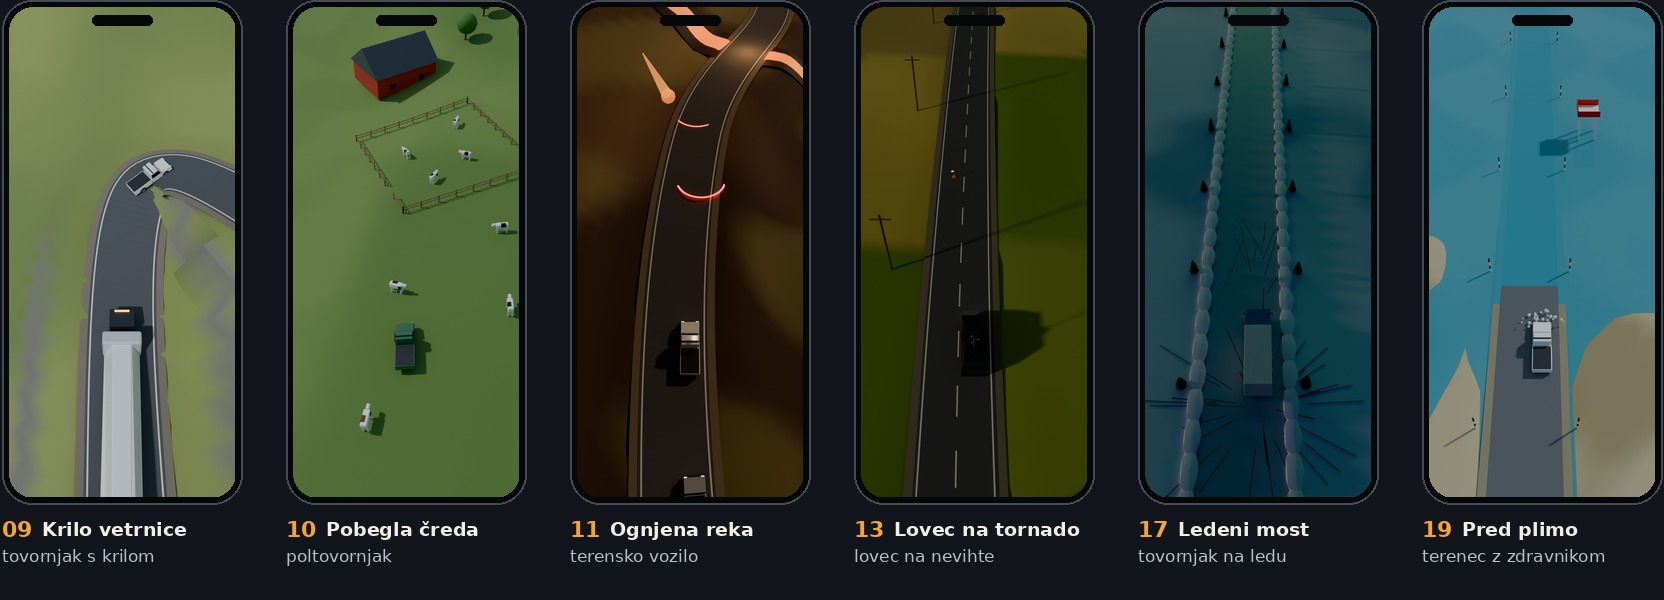
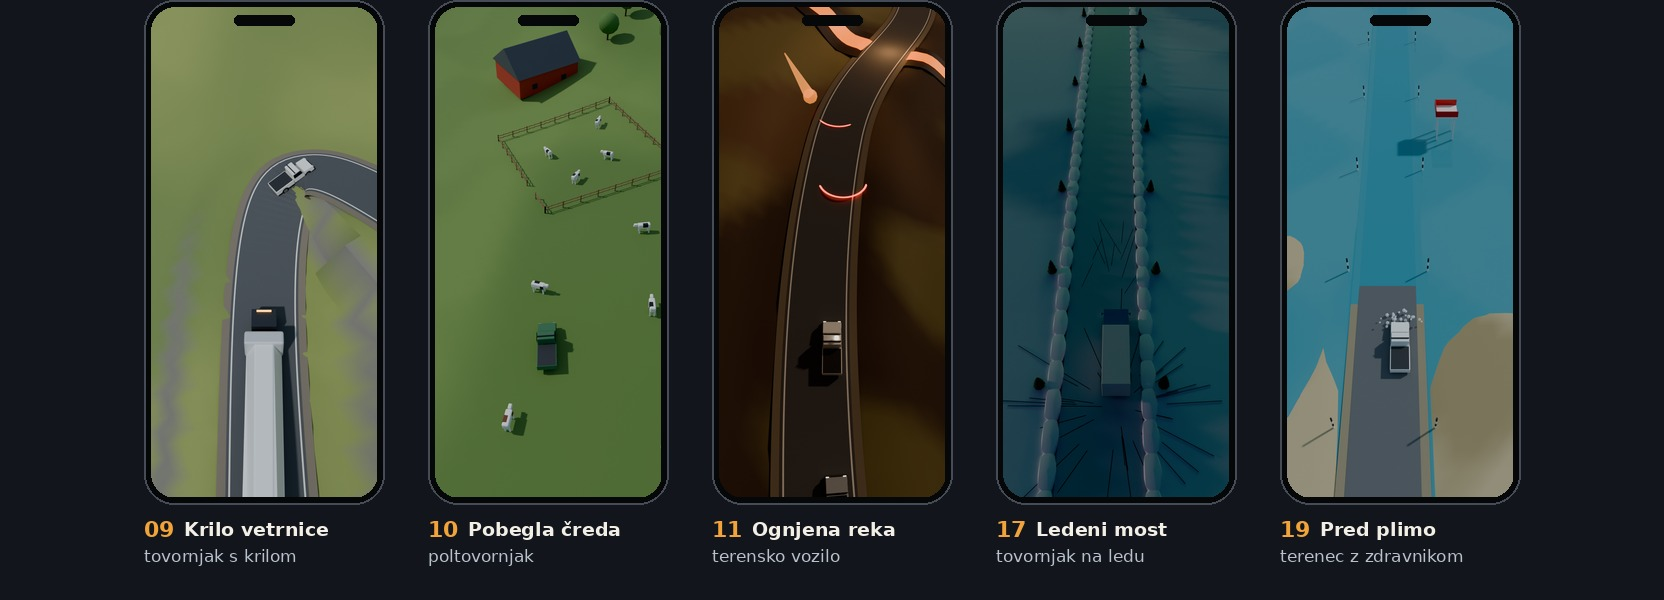
Slike: misija 13 med neizbranimi, izbor 23 misij, ocena časa za kodo
Predstavitev misij: 13 (Lovec na tornado) je med neizbranimi, tabela izbora,
čas in žetoni preračunani (23 izbranih, skupaj 33), list kamere 2/6 brez 13.
izbire.md: odločitev in ocena časa za vse, kar čaka na kodo po »začni«.
Koda igre ni spremenjena.

Claude-Session: https://claude.ai/code/session_01GY6hGMr9T539RyQrVQMfCV

diff --git a/slike-predlogi/misije-10/project/slides/tabela1.html b/slike-predlogi/misije-10/project/slides/tabela1.html
@@ -1,5 +1,5 @@
 <section id="tabela1" data-transition="fade" style="background:#12161C;color:#F3EFE6;font-family:'Public Sans', sans-serif;padding:112px 128px 150px;display:flex;flex-direction:column;gap:28px">
-<h2 style="font-family:'Oswald', sans-serif;font-size:64px;font-weight:600;line-height:1.1;text-transform:uppercase">Tvoj izbor · 24 misij</h2>
+<h2 style="font-family:'Oswald', sans-serif;font-size:64px;font-weight:600;line-height:1.1;text-transform:uppercase">Tvoj izbor · 23 misij</h2>
 <div style="display:flex;flex-direction:row;gap:32px">
 <table style="width:816px;font-family:'Public Sans', sans-serif;font-size:20px;color:#F3EFE6;padding:6px 12px">
 <tr style="background:#1B2230"><th style="width:7%;color:#F2A33A">#</th><th style="width:32%;color:#F2A33A">Misija</th><th style="width:33%;color:#F2A33A">Proga</th><th style="width:13%;color:#F2A33A;text-align:right">Izdelava</th><th style="width:15%;color:#F2A33A;text-align:right">Igranje</th></tr>
@@ -12,27 +12,26 @@
 <tr><td style="color:#F2A33A">09</td><td>Krilo vetrnice</td><td>Katu-Jaryk, Rusija</td><td style="text-align:right">16–22 h</td><td style="text-align:right">9–12 min</td></tr>
 <tr style="background:#161B23"><td style="color:#F2A33A">10</td><td>Pobegla čreda</td><td>Harju, Finska</td><td style="text-align:right">14–20 h</td><td style="text-align:right">4–6 min</td></tr>
 <tr><td style="color:#F2A33A">11</td><td>Ognjena reka</td><td>Mauna Kea, ZDA</td><td style="text-align:right">16–24 h</td><td style="text-align:right">3–4 min</td></tr>
-<tr style="background:#161B23"><td style="color:#F2A33A">13</td><td>Lovec na tornado</td><td>Detroit, ZDA</td><td style="text-align:right">16–24 h</td><td style="text-align:right">5–7 min</td></tr>
-<tr><td style="color:#F2A33A">17</td><td>Ledeni most</td><td>Trois-Rivières, Kanada</td><td style="text-align:right">12–18 h</td><td style="text-align:right">4–5 min</td></tr>
-<tr style="background:#161B23"><td style="color:#F2A33A">19</td><td>Pred plimo</td><td>Townsville, Avstralija</td><td style="text-align:right">12–16 h</td><td style="text-align:right">5–6 min</td></tr>
+<tr style="background:#161B23"><td style="color:#F2A33A">17</td><td>Ledeni most</td><td>Trois-Rivières, Kanada</td><td style="text-align:right">12–18 h</td><td style="text-align:right">4–5 min</td></tr>
+<tr><td style="color:#F2A33A">19</td><td>Pred plimo</td><td>Townsville, Avstralija</td><td style="text-align:right">12–16 h</td><td style="text-align:right">5–6 min</td></tr>
+<tr style="background:#161B23"><td style="color:#F2A33A">23</td><td>Lovec na meteorite</td><td>Marrakesh, Maroko</td><td style="text-align:right">12–18 h</td><td style="text-align:right">7–9 min</td></tr>
 </table>
 <table style="width:816px;font-family:'Public Sans', sans-serif;font-size:20px;color:#F3EFE6;padding:6px 12px">
 <tr style="background:#1B2230"><th style="width:7%;color:#F2A33A">#</th><th style="width:32%;color:#F2A33A">Misija</th><th style="width:33%;color:#F2A33A">Proga</th><th style="width:13%;color:#F2A33A;text-align:right">Izdelava</th><th style="width:15%;color:#F2A33A;text-align:right">Igranje</th></tr>
-<tr><td style="color:#F2A33A">23</td><td>Lovec na meteorite</td><td>Marrakesh, Maroko</td><td style="text-align:right">12–18 h</td><td style="text-align:right">7–9 min</td></tr>
-<tr style="background:#161B23"><td style="color:#F2A33A">26</td><td>Zadnji odstotek</td><td>Tianmen, Kitajska</td><td style="text-align:right">10–14 h</td><td style="text-align:right">6–8 min</td></tr>
-<tr><td style="color:#F2A33A">29</td><td>Božična noč</td><td>Štajerska, Avstrija</td><td style="text-align:right">12–16 h</td><td style="text-align:right">5–6 min</td></tr>
-<tr style="background:#161B23"><td style="color:#F2A33A">30</td><td>Ratrak</td><td>Mount Baldy, ZDA</td><td style="text-align:right">16–22 h</td><td style="text-align:right">6–8 min</td></tr>
-<tr><td style="color:#F2A33A">33</td><td>Odvoz snega</td><td>Montréal, Kanada</td><td style="text-align:right">14–18 h</td><td style="text-align:right">6–8 min</td></tr>
-<tr style="background:#161B23"><td style="color:#F2A33A">34</td><td>Mestni avtobus</td><td>Toronto, Kanada</td><td style="text-align:right">12–18 h</td><td style="text-align:right">10–13 min</td></tr>
-<tr><td style="color:#F2A33A">35</td><td>Reševalci na plaži</td><td>Newcastle, Avstralija</td><td style="text-align:right">16–22 h</td><td style="text-align:right">3–4 min</td></tr>
-<tr style="background:#161B23"><td style="color:#F2A33A">37</td><td>Poplava</td><td>Bang Saen, Tajska</td><td style="text-align:right">16–22 h</td><td style="text-align:right">8–10 min</td></tr>
-<tr><td style="color:#F2A33A">39</td><td>Konji v prikolici</td><td>Monterey, ZDA</td><td style="text-align:right">12–16 h</td><td style="text-align:right">6–8 min</td></tr>
-<tr style="background:#161B23"><td style="color:#F2A33A">40</td><td>Varnostni avto</td><td>Bathurst, Avstralija</td><td style="text-align:right">12–18 h</td><td style="text-align:right">4–5 min</td></tr>
-<tr><td style="color:#F2A33A">43</td><td>Vroče zavore</td><td>Rio do Rastro, Brazilija</td><td style="text-align:right">12–16 h</td><td style="text-align:right">4–5 min</td></tr>
-<tr style="background:#161B23"><td style="color:#F2A33A">45</td><td>Turistični vlakec</td><td>Riviera, Francija</td><td style="text-align:right">14–20 h</td><td style="text-align:right">6–8 min</td></tr>
+<tr><td style="color:#F2A33A">26</td><td>Zadnji odstotek</td><td>Tianmen, Kitajska</td><td style="text-align:right">10–14 h</td><td style="text-align:right">6–8 min</td></tr>
+<tr style="background:#161B23"><td style="color:#F2A33A">29</td><td>Božična noč</td><td>Štajerska, Avstrija</td><td style="text-align:right">12–16 h</td><td style="text-align:right">5–6 min</td></tr>
+<tr><td style="color:#F2A33A">30</td><td>Ratrak</td><td>Mount Baldy, ZDA</td><td style="text-align:right">16–22 h</td><td style="text-align:right">6–8 min</td></tr>
+<tr style="background:#161B23"><td style="color:#F2A33A">33</td><td>Odvoz snega</td><td>Montréal, Kanada</td><td style="text-align:right">14–18 h</td><td style="text-align:right">6–8 min</td></tr>
+<tr><td style="color:#F2A33A">34</td><td>Mestni avtobus</td><td>Toronto, Kanada</td><td style="text-align:right">12–18 h</td><td style="text-align:right">10–13 min</td></tr>
+<tr style="background:#161B23"><td style="color:#F2A33A">35</td><td>Reševalci na plaži</td><td>Newcastle, Avstralija</td><td style="text-align:right">16–22 h</td><td style="text-align:right">3–4 min</td></tr>
+<tr><td style="color:#F2A33A">37</td><td>Poplava</td><td>Bang Saen, Tajska</td><td style="text-align:right">16–22 h</td><td style="text-align:right">8–10 min</td></tr>
+<tr style="background:#161B23"><td style="color:#F2A33A">39</td><td>Konji v prikolici</td><td>Monterey, ZDA</td><td style="text-align:right">12–16 h</td><td style="text-align:right">6–8 min</td></tr>
+<tr><td style="color:#F2A33A">40</td><td>Varnostni avto</td><td>Bathurst, Avstralija</td><td style="text-align:right">12–18 h</td><td style="text-align:right">4–5 min</td></tr>
+<tr style="background:#161B23"><td style="color:#F2A33A">43</td><td>Vroče zavore</td><td>Rio do Rastro, Brazilija</td><td style="text-align:right">12–16 h</td><td style="text-align:right">4–5 min</td></tr>
+<tr><td style="color:#F2A33A">45</td><td>Turistični vlakec</td><td>Riviera, Francija</td><td style="text-align:right">14–20 h</td><td style="text-align:right">6–8 min</td></tr>
 </table>
 </div>
-<div style="background:#1B2230;border-left:6px solid #F2A33A;padding:20px 28px"><p style="font-size:26px;line-height:1.4"><b>Skupaj 322–454 h izdelave.</b> Vseh 24 misij se enkrat odigra v 135–177 minutah. Misija 6 ima zdaj promet (+2 h), 45 je prestavljena na Rivijero.</p></div>
+<div style="background:#1B2230;border-left:6px solid #F2A33A;padding:20px 28px"><p style="font-size:26px;line-height:1.4"><b>Skupaj 306–430 h izdelave.</b> Vseh 23 misij se enkrat odigra v 130–170 minutah. Misija 6 ima zdaj promet (+2 h), 45 je prestavljena na Rivijero, 13 je med neizbranimi.</p></div>
 <p style="position:absolute;left:128px;bottom:64px;width:1664px;font-size:24px;color:#B9C2CC">55 posebnih misij · 2 / 73 · izdelava: vozilo, igralni del in testi; igranje: ena vožnja misije</p>
 <aside>Tabela tvojega izbora: za vsako misijo proga, čas izdelave in koliko časa traja, ko jo igralec igra. Ure so groba ocena.</aside>
 </section>

diff --git a/slike-predlogi/misije-10/project/slides/ostale.html b/slike-predlogi/misije-10/project/slides/ostale.html
@@ -1,10 +1,11 @@
 <section id="ostale" data-transition="fade" style="background:#1B2230;color:#F3EFE6;font-family:'Public Sans', sans-serif;padding:128px 128px 160px;display:flex;flex-direction:column;gap:36px">
 <h2 style="font-family:'Oswald', sans-serif;font-size:72px;font-weight:600;line-height:1.1;text-transform:uppercase">Neizbrane misije</h2>
-<p style="font-size:30px;line-height:1.4;width:1500px">Teh 21 misij nisi izbral. Ostajajo v predstavitvi kot rezerva, tu za tem, in jih lahko kadar koli dodaš nazaj.</p>
+<p style="font-size:30px;line-height:1.4;width:1500px">Teh 22 misij nisi izbral. Ostajajo v predstavitvi kot rezerva, tu za tem, in jih lahko kadar koli dodaš nazaj. Zadnja dodana: 13 Lovec na tornado.</p>
 <div style="display:grid;grid-template-columns:repeat(4, 1fr);gap:14px">
 <div style="background:#12161C;border-radius:12px;padding:14px 18px;display:flex;flex-direction:row;gap:12px"><p style="font-size:24px;font-weight:700;color:#F2A33A">03</p><p style="font-size:24px;line-height:1.3">Zasuti prelaz</p></div>
 <div style="background:#12161C;border-radius:12px;padding:14px 18px;display:flex;flex-direction:row;gap:12px"><p style="font-size:24px;font-weight:700;color:#F2A33A">05</p><p style="font-size:24px;line-height:1.3">Vedro iz jezera</p></div>
 <div style="background:#12161C;border-radius:12px;padding:14px 18px;display:flex;flex-direction:row;gap:12px"><p style="font-size:24px;font-weight:700;color:#F2A33A">12</p><p style="font-size:24px;line-height:1.3">Avtek na daljinca</p></div>
+<div style="background:#12161C;border-radius:12px;padding:14px 18px;display:flex;flex-direction:row;gap:12px"><p style="font-size:24px;font-weight:700;color:#F2A33A">13</p><p style="font-size:24px;line-height:1.3">Lovec na tornado</p></div>
 <div style="background:#12161C;border-radius:12px;padding:14px 18px;display:flex;flex-direction:row;gap:12px"><p style="font-size:24px;font-weight:700;color:#F2A33A">14</p><p style="font-size:24px;line-height:1.3">Sladoledar</p></div>
 <div style="background:#12161C;border-radius:12px;padding:14px 18px;display:flex;flex-direction:row;gap:12px"><p style="font-size:24px;font-weight:700;color:#F2A33A">15</p><p style="font-size:24px;line-height:1.3">Na tirih</p></div>
 <div style="background:#12161C;border-radius:12px;padding:14px 18px;display:flex;flex-direction:row;gap:12px"><p style="font-size:24px;font-weight:700;color:#F2A33A">16</p><p style="font-size:24px;line-height:1.3">Za balonom</p></div>
@@ -24,6 +25,6 @@
 <div style="background:#12161C;border-radius:12px;padding:14px 18px;display:flex;flex-direction:row;gap:12px"><p style="font-size:24px;font-weight:700;color:#F2A33A">42</p><p style="font-size:24px;line-height:1.3">Ogledalo za zvezde</p></div>
 <div style="background:#12161C;border-radius:12px;padding:14px 18px;display:flex;flex-direction:row;gap:12px"><p style="font-size:24px;font-weight:700;color:#F2A33A">44</p><p style="font-size:24px;line-height:1.3">Skalni podor</p></div>
 </div>
-<p style="position:absolute;left:128px;bottom:64px;width:1664px;font-size:24px;color:#B9C2CC">55 posebnih misij · 52 / 73 · rezerva; makete ostanejo</p>
+<p style="position:absolute;left:128px;bottom:64px;width:1664px;font-size:24px;color:#B9C2CC">55 posebnih misij · 51 / 73 · rezerva; makete ostanejo</p>
 <aside>Nekatere proge teh misij zdaj uporabljajo nove misije (npr. Big Sur, Nürburg, Suzuka). Če katero od starih misij dodaš nazaj, si progo deli z novo.</aside>
 </section>

diff --git a/slike-predlogi/misije-10/project/slides/tabela2.html b/slike-predlogi/misije-10/project/slides/tabela2.html
@@ -15,13 +15,13 @@
 <tr style="background:#161B23"><td style="color:#F2A33A">55</td><td>Medvedi na cesti</td><td>Beartooth, ZDA</td><td style="text-align:right">12–18 h</td><td style="text-align:right">4–6 min</td></tr>
 </table>
 <div style="flex:1;display:flex;flex-direction:column;gap:16px">
-<div style="background:#1B2230;border-radius:14px;padding:16px 24px"><p style="font-size:22px;color:#B9C2CC">Izbranih 24 misij</p><p style="font-family:'Oswald', sans-serif;font-size:40px;font-weight:600;line-height:1.15">322–454 h</p></div>
+<div style="background:#1B2230;border-radius:14px;padding:16px 24px"><p style="font-size:22px;color:#B9C2CC">Izbranih 23 misij</p><p style="font-family:'Oswald', sans-serif;font-size:40px;font-weight:600;line-height:1.15">306–430 h</p></div>
 <div style="background:#1B2230;border-radius:14px;padding:16px 24px"><p style="font-size:22px;color:#B9C2CC">10 novih misij</p><p style="font-family:'Oswald', sans-serif;font-size:40px;font-weight:600;line-height:1.15">124–174 h</p></div>
 <div style="background:#1B2230;border-radius:14px;padding:16px 24px"><p style="font-size:22px;color:#B9C2CC">Sistem misij (enkrat)</p><p style="font-family:'Oswald', sans-serif;font-size:40px;font-weight:600;line-height:1.15">10–14 h</p></div>
-<div style="background:#3A2A12;border-radius:14px;padding:18px 24px"><p style="font-size:22px;color:#F2A33A">Skupaj izdelava</p><p style="font-family:'Oswald', sans-serif;font-size:52px;font-weight:600;line-height:1.15;color:#F2A33A">456–642 h</p></div>
+<div style="background:#3A2A12;border-radius:14px;padding:18px 24px"><p style="font-size:22px;color:#F2A33A">Skupaj izdelava</p><p style="font-family:'Oswald', sans-serif;font-size:52px;font-weight:600;line-height:1.15;color:#F2A33A">440–618 h</p></div>
 </div>
 </div>
-<div style="background:#1B2230;border-left:6px solid #F2A33A;padding:20px 28px"><p style="font-size:24px;line-height:1.4">Realno <b>okoli 320–515 h</b>, ker se ogenj, voda, vrv in vozila med misijami ponavljajo (20–30 % manj). Vseh 34 misij se enkrat odigra v 194–255 minutah (3,2–4,3 h). Žetoni: okoli 145–315 mio.</p></div>
+<div style="background:#1B2230;border-left:6px solid #F2A33A;padding:20px 28px"><p style="font-size:24px;line-height:1.4">Realno <b>okoli 310–495 h</b>, ker se ogenj, voda, vrv in vozila med misijami ponavljajo (20–30 % manj). Vseh 33 misij se enkrat odigra v 189–248 minutah (3,2–4,1 h). Žetoni: okoli 145–300 mio.</p></div>
 <p style="position:absolute;left:128px;bottom:64px;width:1664px;font-size:24px;color:#B9C2CC">55 posebnih misij · 3 / 73 · vse na progah, ki so že v igri</p>
 <aside>Nove misije so na progah, ki jih tvoj izbor še ne uporablja. Skupni čas vključuje sistem misij v boksih, ki ga narediš enkrat za vse.</aside>
 </section>

diff --git a/slike-predlogi/misije-10/project/slides/cas.html b/slike-predlogi/misije-10/project/slides/cas.html
@@ -7,13 +7,13 @@
 <tr><td>Vozilo v igri (vožnja, poenostavitev, testi)</td><td style="text-align:right">4–6 h</td><td style="text-align:right">1,5–3 mio</td></tr>
 <tr style="background:#161B23"><td>Poseben igralni del (ogenj, vrv, pljuskanje, čreda)</td><td style="text-align:right">6–14 h</td><td style="text-align:right">2–6 mio</td></tr>
 <tr><td>Ena posebna misija skupaj</td><td style="text-align:right">10–30 h</td><td style="text-align:right">3–12 mio</td></tr>
-<tr style="background:#161B23"><td>Izbranih 24 misij</td><td style="text-align:right">322–454 h</td><td style="text-align:right">105–220 mio</td></tr>
+<tr style="background:#161B23"><td>Izbranih 23 misij</td><td style="text-align:right">306–430 h</td><td style="text-align:right">100–210 mio</td></tr>
 <tr><td>10 novih misij (46–55)</td><td style="text-align:right">124–174 h</td><td style="text-align:right">40–85 mio</td></tr>
-<tr style="background:#3A2A12"><td style="color:#F2A33A">Izbranih 34 misij s sistemom</td><td style="text-align:right;color:#F2A33A">456–642 h</td><td style="text-align:right;color:#F2A33A">145–315 mio</td></tr>
+<tr style="background:#3A2A12"><td style="color:#F2A33A">Izbranih 33 misij s sistemom</td><td style="text-align:right;color:#F2A33A">440–618 h</td><td style="text-align:right;color:#F2A33A">145–300 mio</td></tr>
 </table>
 <div style="background:#1B2230;border-left:6px solid #F2A33A;padding:24px 32px">
-<p style="font-size:28px;line-height:1.4"><b>Skupni gradniki:</b> voda, ogenj, vozila in živali se med misijami ponavljajo, zato bo dela realno 20–30 % manj: okoli 320–515 h.</p>
+<p style="font-size:28px;line-height:1.4"><b>Skupni gradniki:</b> voda, ogenj, vozila in živali se med misijami ponavljajo, zato bo dela realno 20–30 % manj: okoli 310–495 h.</p>
 </div>
-<p style="position:absolute;left:128px;bottom:64px;width:1664px;font-size:24px;color:#B9C2CC">55 posebnih misij · 47 / 73 · žetoni: groba ocena celotne porabe, ne meritev</p>
+<p style="position:absolute;left:128px;bottom:64px;width:1664px;font-size:24px;color:#B9C2CC">55 posebnih misij · 46 / 73 · žetoni: groba ocena celotne porabe, ne meritev</p>
 <aside>Ko je enkrat narejen helikopter ali ogenj, so naslednje misije s tem gradnikom veliko cenejše. Zato je smiselno začeti z misijo, ki prinese največ gradnikov za naprej, na primer s požarom na vrhu.</aside>
 </section>

diff --git a/slike-predlogi/misije-10/project/slides/kamera2.html b/slike-predlogi/misije-10/project/slides/kamera2.html
@@ -1,7 +1,7 @@
 <section id="kamera2" data-transition="fade" style="background:#12161C;color:#F3EFE6;font-family:'Public Sans', sans-serif;padding:112px 128px 150px;display:flex;flex-direction:column;gap:24px">
 <h2 style="font-family:'Oswald', sans-serif;font-size:64px;font-weight:600;line-height:1.1;text-transform:uppercase">Kamera igralca · Blizu · 2 / 6</h2>
-<p style="font-size:26px;line-height:1.4;color:#B9C2CC">Telefon pokonci, kamera za avtom, nastavitev Blizu: tako veliko je vozilo na zaslonu med vožnjo. Misije 09–19.</p>
-<img src="/_blob/34a27b02c11b9ff95506425512975beb" alt="Šest telefonov pokonci s pogledom igralca od zadaj in od zgoraj na vozila misij 09–19" style="width:1664px;height:600px;object-fit:contain">
-<p style="position:absolute;left:128px;bottom:64px;width:1664px;font-size:24px;color:#B9C2CC">55 posebnih misij · 42 / 73 · kamera kot v igri: okoli 50 m od točke 13 m pred avtom, 50° navzdol, zorni kot 58°</p>
+<p style="font-size:26px;line-height:1.4;color:#B9C2CC">Telefon pokonci, kamera za avtom, nastavitev Blizu: tako veliko je vozilo na zaslonu med vožnjo. Misije 09–19, brez 13, ki je med neizbranimi.</p>
+<img src="/_blob/3f4693b3aa5fb148eaba78a60527dea2" alt="Pet telefonov pokonci s pogledom igralca od zadaj in od zgoraj na vozila misij 09–19" style="width:1664px;height:600px;object-fit:contain">
+<p style="position:absolute;left:128px;bottom:64px;width:1664px;font-size:24px;color:#B9C2CC">55 posebnih misij · 41 / 73 · kamera kot v igri: okoli 50 m od točke 13 m pred avtom, 50° navzdol, zorni kot 58°</p>
 <aside>Pri nastavitvi Srednje je kamera 27 % dlje, pri Daleč 55 % dlje; vozila so tam še manjša. Dolg tovor, kot je krilo vetrnice, sega pod spodnji rob zaslona.</aside>
 </section>

diff --git a/slike-predlogi/misije-10/project/slides/rezerva.html b/slike-predlogi/misije-10/project/slides/rezerva.html
@@ -8,6 +8,6 @@
 <div style="background:#12161C;border-radius:16px;padding:32px;display:flex;flex-direction:column;gap:12px"><h3 style="font-family:'Oswald', sans-serif;font-size:36px;font-weight:600;line-height:1.2;color:#F2A33A;text-transform:uppercase">Solna ravnica</h3><p style="font-size:26px;line-height:1.4;color:#B9C2CC">Poskus hitrostnega rekorda. Najvišja hitrost v merjenem kilometru, nato zaviranje s padalom.</p></div>
 <div style="background:#12161C;border-radius:16px;padding:32px;display:flex;flex-direction:column;gap:12px"><h3 style="font-family:'Oswald', sans-serif;font-size:36px;font-weight:600;line-height:1.2;color:#F2A33A;text-transform:uppercase">Potisni letalo</h3><p style="font-size:26px;line-height:1.4;color:#B9C2CC">Z malim vlačilcem vzvratno potisni potniško letalo na vozno stezo, ne da zadeneš krila.</p></div>
 </div>
-<p style="position:absolute;left:128px;bottom:64px;width:1664px;font-size:24px;color:#B9C2CC">55 posebnih misij · 48 / 73 · ideje brez makete, za kasneje</p>
+<p style="position:absolute;left:128px;bottom:64px;width:1664px;font-size:24px;color:#B9C2CC">55 posebnih misij · 47 / 73 · ideje brez makete, za kasneje</p>
 <aside>Plaz, poplava, peščeni vihar in konji v prikolici so zdaj med misijami 36–39. V rezervi ostajata solna ravnica in letalo, dodane so štiri nove ideje: vleka sani, mačka na drevesu, kit na plaži in ledena ploskev.</aside>
 </section>

diff --git a/slike-predlogi/misije-10/project/slides/cover.html b/slike-predlogi/misije-10/project/slides/cover.html
@@ -4,8 +4,8 @@
 <p style="font-size:28px;font-weight:700;letter-spacing:4px;text-transform:uppercase;color:#F2A33A">Boksi ob cesti · predlog 6</p>
 <div style="display:flex;flex-direction:column;gap:32px;width:980px">
 <h1 style="font-family:'Oswald', sans-serif;font-size:132px;font-weight:600;line-height:1.05;text-transform:uppercase">55 posebnih misij</h1>
-<p style="font-size:36px;line-height:1.4;color:#B9C2CC">Tvoj izbor 24 misij, 10 novih, kako vržeš darilo in kako iščeš plavalca, vozila skozi kamero igralca in čas izdelave za vsako misijo.</p>
+<p style="font-size:36px;line-height:1.4;color:#B9C2CC">Tvoj izbor 23 misij, 10 novih, kako vržeš darilo in kako iščeš plavalca, vozila skozi kamero igralca in čas izdelave za vsako misijo.</p>
 </div>
 <p style="font-size:24px;color:#B9C2CC">29. 10. 2026 · makete iz Blenderja; v igri bo grafika preprostejša · ure so groba ocena</p>
-<aside>Šesta verzija predloga: tvoj izbor 24 misij na začetku, 10 novih misij, kamera igralca pri nastavitvi Blizu in tabela časov. Neizbrane misije so na koncu.</aside>
+<aside>Šesta verzija predloga: tvoj izbor 23 misij na začetku, 10 novih misij, kamera igralca pri nastavitvi Blizu in tabela časov. Neizbrane misije so na koncu.</aside>
 </section>

diff --git a/slike-predlogi/misije-10/project/slides/kamera1.html b/slike-predlogi/misije-10/project/slides/kamera1.html
@@ -2,6 +2,6 @@
 <h2 style="font-family:'Oswald', sans-serif;font-size:64px;font-weight:600;line-height:1.1;text-transform:uppercase">Kamera igralca · Blizu · 1 / 6</h2>
 <p style="font-size:26px;line-height:1.4;color:#B9C2CC">Telefon pokonci, kamera za avtom, nastavitev Blizu: tako veliko je vozilo na zaslonu med vožnjo. Misije 01–08.</p>
 <img src="/_blob/853889b2446fb78be310492e4a0f6e8e" alt="Šest telefonov pokonci s pogledom igralca od zadaj in od zgoraj na vozila misij 01–08" style="width:1664px;height:600px;object-fit:contain">
-<p style="position:absolute;left:128px;bottom:64px;width:1664px;font-size:24px;color:#B9C2CC">55 posebnih misij · 41 / 73 · kamera kot v igri: okoli 50 m od točke 13 m pred avtom, 50° navzdol, zorni kot 58°</p>
+<p style="position:absolute;left:128px;bottom:64px;width:1664px;font-size:24px;color:#B9C2CC">55 posebnih misij · 40 / 73 · kamera kot v igri: okoli 50 m od točke 13 m pred avtom, 50° navzdol, zorni kot 58°</p>
 <aside>Kamera za avtom je pri nastavitvi Blizu visoko nad cesto, zato se vozilo vidi predvsem od zgoraj: streha, oblika in barva. Drobni napisi in detajli na boku se ne vidijo.</aside>
 </section>

diff --git a/slike-predlogi/misije-10/project/slides/kamera5.html b/slike-predlogi/misije-10/project/slides/kamera5.html
@@ -2,6 +2,6 @@
 <h2 style="font-family:'Oswald', sans-serif;font-size:64px;font-weight:600;line-height:1.1;text-transform:uppercase">Kamera igralca · Blizu · 5 / 6</h2>
 <p style="font-size:26px;line-height:1.4;color:#B9C2CC">Telefon pokonci, kamera za avtom, nastavitev Blizu: tako veliko je vozilo na zaslonu med vožnjo. Misije 46–51.</p>
 <img src="/_blob/b8f87a05f168a55a46b7bf9cc85cbf1f" alt="Šest telefonov pokonci s pogledom igralca od zadaj in od zgoraj na vozila misij 46–51" style="width:1664px;height:600px;object-fit:contain">
-<p style="position:absolute;left:128px;bottom:64px;width:1664px;font-size:24px;color:#B9C2CC">55 posebnih misij · 45 / 73 · kamera kot v igri: okoli 50 m od točke 13 m pred avtom, 50° navzdol, zorni kot 58°</p>
+<p style="position:absolute;left:128px;bottom:64px;width:1664px;font-size:24px;color:#B9C2CC">55 posebnih misij · 44 / 73 · kamera kot v igri: okoli 50 m od točke 13 m pred avtom, 50° navzdol, zorni kot 58°</p>
 <aside>Pri čebelnjaku se od zgoraj vidi predvsem streha, pisane končnice pa le ob strani; v igri bi lahko pobarvali še streho. Plošče stegozavra se vidijo dobro.</aside>
 </section>

diff --git a/slike-predlogi/misije-10/project/slides/kamera3.html b/slike-predlogi/misije-10/project/slides/kamera3.html
@@ -2,6 +2,6 @@
 <h2 style="font-family:'Oswald', sans-serif;font-size:64px;font-weight:600;line-height:1.1;text-transform:uppercase">Kamera igralca · Blizu · 3 / 6</h2>
 <p style="font-size:26px;line-height:1.4;color:#B9C2CC">Telefon pokonci, kamera za avtom, nastavitev Blizu: tako veliko je vozilo na zaslonu med vožnjo. Misije 23–34.</p>
 <img src="/_blob/0e3685d6cc11d30c26be226721d020e1" alt="Šest telefonov pokonci s pogledom igralca od zadaj in od zgoraj na vozila misij 23–34" style="width:1664px;height:600px;object-fit:contain">
-<p style="position:absolute;left:128px;bottom:64px;width:1664px;font-size:24px;color:#B9C2CC">55 posebnih misij · 43 / 73 · kamera kot v igri: okoli 50 m od točke 13 m pred avtom, 50° navzdol, zorni kot 58°</p>
+<p style="position:absolute;left:128px;bottom:64px;width:1664px;font-size:24px;color:#B9C2CC">55 posebnih misij · 42 / 73 · kamera kot v igri: okoli 50 m od točke 13 m pred avtom, 50° navzdol, zorni kot 58°</p>
 <aside>Ponoči so najbolj vidne luči: žarometi, utripalke, lučke na hišah in reflektorji ratraka. Te morajo biti v igri dovolj svetle.</aside>
 </section>

diff --git a/slike-predlogi/misije-10/project/slides/kamera6.html b/slike-predlogi/misije-10/project/slides/kamera6.html
@@ -2,6 +2,6 @@
 <h2 style="font-family:'Oswald', sans-serif;font-size:64px;font-weight:600;line-height:1.1;text-transform:uppercase">Kamera igralca · Blizu · 6 / 6</h2>
 <p style="font-size:26px;line-height:1.4;color:#B9C2CC">Telefon pokonci, kamera za avtom, nastavitev Blizu: tako veliko je vozilo na zaslonu med vožnjo. Misije 52–55.</p>
 <img src="/_blob/83a1cb9457031856ac5d854ca3685b12" alt="Šest telefonov pokonci s pogledom igralca od zadaj in od zgoraj na vozila misij 52–55" style="width:1664px;height:600px;object-fit:contain">
-<p style="position:absolute;left:128px;bottom:64px;width:1664px;font-size:24px;color:#B9C2CC">55 posebnih misij · 46 / 73 · kamera kot v igri: okoli 50 m od točke 13 m pred avtom, 50° navzdol, zorni kot 58°</p>
+<p style="position:absolute;left:128px;bottom:64px;width:1664px;font-size:24px;color:#B9C2CC">55 posebnih misij · 45 / 73 · kamera kot v igri: okoli 50 m od točke 13 m pred avtom, 50° navzdol, zorni kot 58°</p>
 <aside>Pri širokem tovoru (hiša) se od zgoraj lepo vidi, koliko ceste zavzame, zato je misija dobro igrljiva s kamero za avtom.</aside>
 </section>

diff --git a/slike-predlogi/misije-10/project/slides/kamera4.html b/slike-predlogi/misije-10/project/slides/kamera4.html
@@ -2,6 +2,6 @@
 <h2 style="font-family:'Oswald', sans-serif;font-size:64px;font-weight:600;line-height:1.1;text-transform:uppercase">Kamera igralca · Blizu · 4 / 6</h2>
 <p style="font-size:26px;line-height:1.4;color:#B9C2CC">Telefon pokonci, kamera za avtom, nastavitev Blizu: tako veliko je vozilo na zaslonu med vožnjo. Misije 35–45.</p>
 <img src="/_blob/a7b07d202a108dd48d358a25b87e59e3" alt="Šest telefonov pokonci s pogledom igralca od zadaj in od zgoraj na vozila misij 35–45" style="width:1664px;height:600px;object-fit:contain">
-<p style="position:absolute;left:128px;bottom:64px;width:1664px;font-size:24px;color:#B9C2CC">55 posebnih misij · 44 / 73 · kamera kot v igri: okoli 50 m od točke 13 m pred avtom, 50° navzdol, zorni kot 58°</p>
+<p style="position:absolute;left:128px;bottom:64px;width:1664px;font-size:24px;color:#B9C2CC">55 posebnih misij · 43 / 73 · kamera kot v igri: okoli 50 m od točke 13 m pred avtom, 50° navzdol, zorni kot 58°</p>
 <aside>Pri vozilih s prikolico ali vagončki se vidi cel sestav, zato igralec dobro vidi, kako zadnji del reže ovinek.</aside>
 </section>
